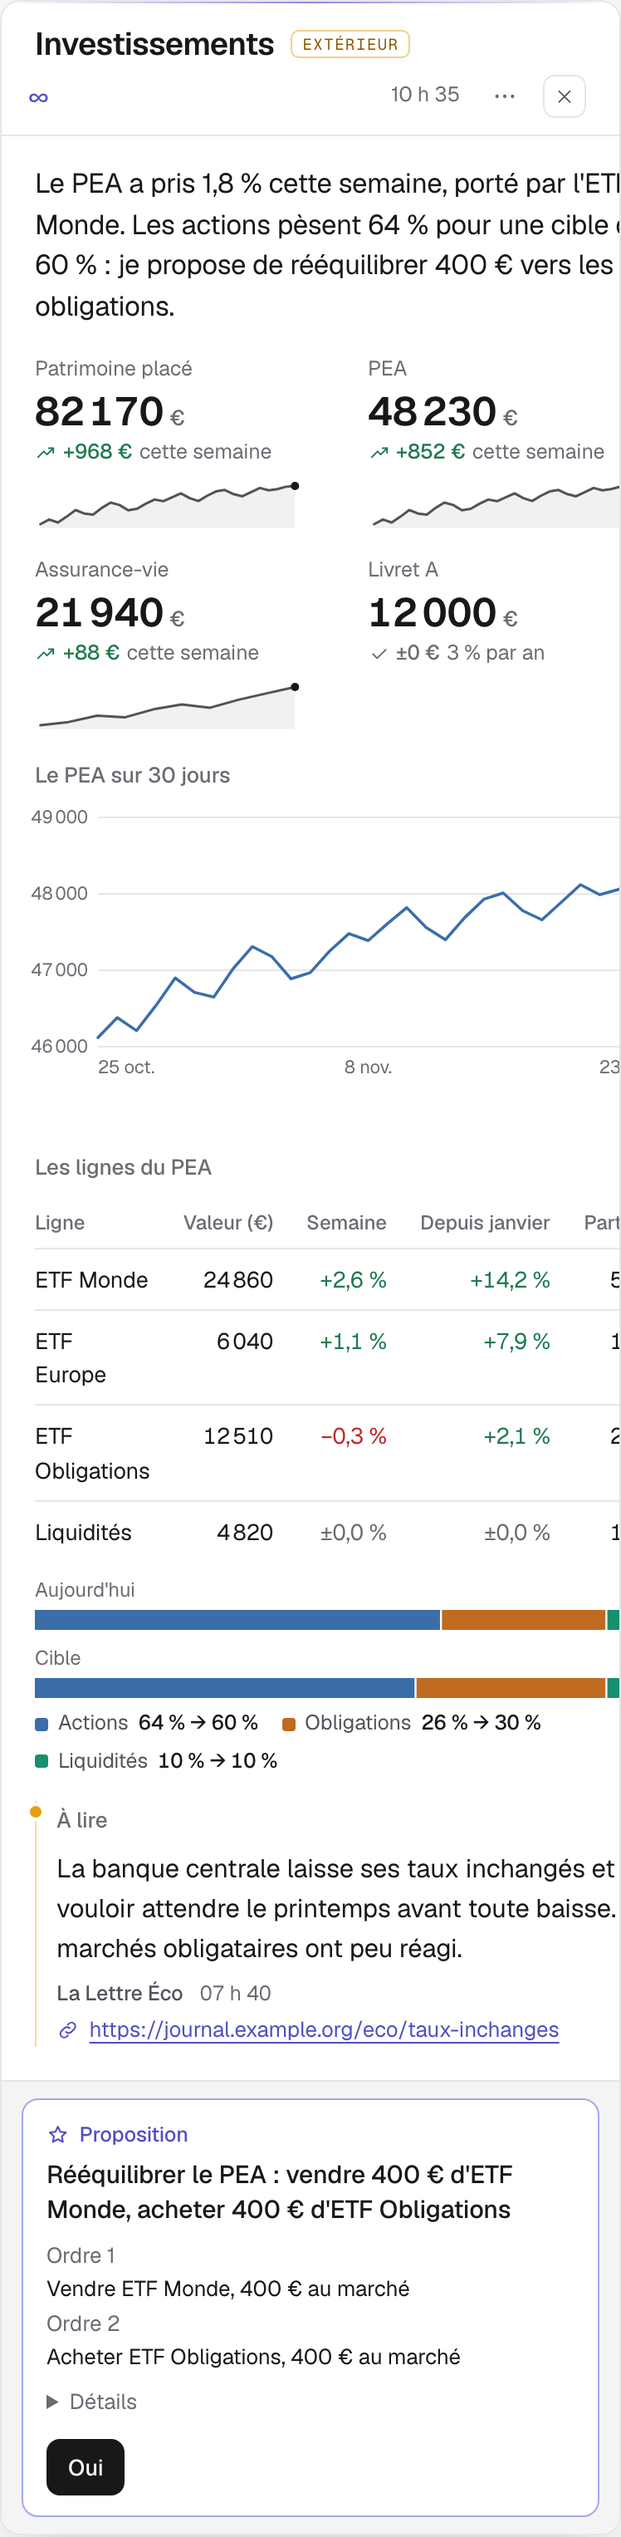
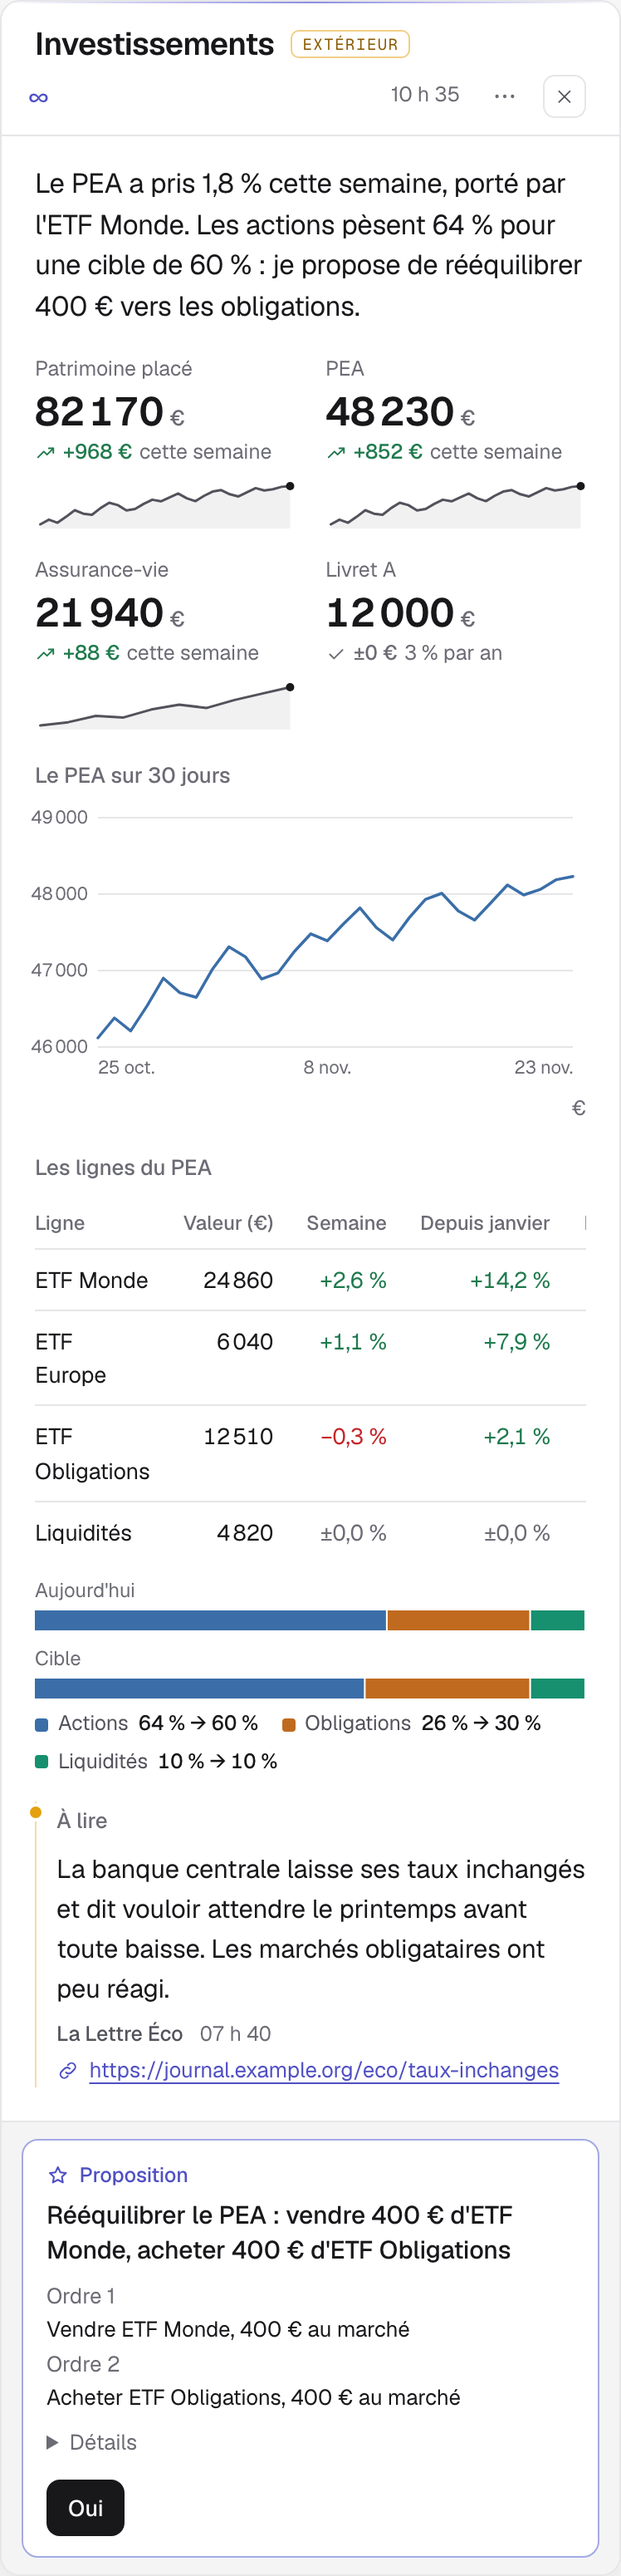
fix(espace): keep a phone page within the screen, rename the agenda's words for the tool guard

diff --git a/core/web/espace/src/a2ui/agenda.tsx b/core/web/espace/src/a2ui/agenda.tsx
@@ -160,8 +160,8 @@ function dayName(lang: Lang, t: T, date: string, now: Date, small = false): [str
   const d = today(now).date;
   const long = day(lang, w);
   const short = new Intl.DateTimeFormat(locale(lang), { weekday: "short", day: "numeric", timeZone: "UTC" }).format(w.at);
-  if (date === d) return [t("espace.a2.agenda.today"), long];
-  if (date === addDays(d, 1)) return [t("espace.a2.agenda.tomorrow"), small ? short : long];
+  if (date === d) return [t("espace.a2.days.today"), long];
+  if (date === addDays(d, 1)) return [t("espace.a2.days.tomorrow"), small ? short : long];
   return small ? [short, ""] : [long.charAt(0).toUpperCase() + long.slice(1), ""];
 }
 
@@ -177,8 +177,8 @@ function Head({ name }: { name: [string, string] }) {
 // What an entry says of itself besides its title: « à répondre », « peut-être »,
 // « Proposé »…
 function said(t: T, ev: Entry): string {
-  if (ev.ghost) return t(ev.tainted ? "espace.a2.agenda.proposed.tainted" : "espace.a2.agenda.proposed");
-  return ev.st ? t(`espace.a2.agenda.status.${ev.st}`) : "";
+  if (ev.ghost) return t(ev.tainted ? "espace.a2.days.proposed.tainted" : "espace.a2.days.proposed");
+  return ev.st ? t(`espace.a2.days.status.${ev.st}`) : "";
 }
 
 const stClass = (ev: Entry) => [ev.waits ? "a2-ev-waits" : "", ev.st ? `a2-ev-${ev.st}` : ""].filter(Boolean).join(" ");
@@ -235,7 +235,7 @@ function HourDay({ date, items, cards, lang, t, now }: { date: string; items: En
             {String(h).padStart(2, "0")}
           </span>
         ))}
-        {!timed.length && !allDay.length && <p className="a2-empty a2-agenda-none a2-r-0">{t("espace.a2.agenda.none")}</p>}
+        {!timed.length && !allDay.length && <p className="a2-empty a2-agenda-none a2-r-0">{t("espace.a2.days.none")}</p>}
         {timed.map((p, i) => {
           const rows = Math.max(1, Math.ceil((p.end - p.start) / SLOT));
           const past = isToday && p.end <= here.min;
@@ -268,12 +268,12 @@ function HourDay({ date, items, cards, lang, t, now }: { date: string; items: En
               )}
               {rows > 3 && p.ev.waits && p.clash.length > 0 && (
                 <span className="a2-ev-line a2-ev-sub">
-                  <span className="a2-ev-clash">{t("espace.a2.agenda.clash", p.clash.join(", "))}</span>
+                  <span className="a2-ev-clash">{t("espace.a2.days.clash", p.clash.join(", "))}</span>
                 </span>
               )}
               {yes(p.ev, cards)}
-              {p.ev.waits && p.clash.length > 0 && rows <= 3 && <span className="sr-only">{t("espace.a2.agenda.clash", p.clash.join(", "))}</span>}
-              {p.overlap && !(p.ev.waits && p.clash.length) && <span className="sr-only">{t("espace.a2.agenda.overlap")}</span>}
+              {p.ev.waits && p.clash.length > 0 && rows <= 3 && <span className="sr-only">{t("espace.a2.days.clash", p.clash.join(", "))}</span>}
+              {p.overlap && !(p.ev.waits && p.clash.length) && <span className="sr-only">{t("espace.a2.days.overlap")}</span>}
             </div>
           );
         })}
@@ -283,7 +283,7 @@ function HourDay({ date, items, cards, lang, t, now }: { date: string; items: En
               {time(lang, nowW, true)}
             </span>
             <span className={`a2-now a2-r-${row(here.min)} a2-now-${Math.floor((nowAt % SLOT) / 10)}`} role="presentation">
-              <span className="sr-only">{t("espace.a2.agenda.now", time(lang, nowW))}</span>
+              <span className="sr-only">{t("espace.a2.days.now", time(lang, nowW))}</span>
             </span>
           </>
         )}
@@ -308,7 +308,7 @@ function ListDay({ date, items, cards, lang, t, now, small = false }: { date: st
             const word = said(t, ev);
             return (
               <li key={i} className={`a2-agenda-line ${stClass(ev)}`} data-proposal={ev.ghost}>
-                <span className="a2-agenda-at">{at || t("espace.a2.agenda.allday")}</span>
+                <span className="a2-agenda-at">{at || t("espace.a2.days.allday")}</span>
                 <span className="a2-agenda-what">
                   <span className="a2-ev-title">{ev.title}</span>
                   {!small && ev.place && <span className="a2-ev-place">{ev.place}</span>}
@@ -320,7 +320,7 @@ function ListDay({ date, items, cards, lang, t, now, small = false }: { date: st
           })}
         </ul>
       ) : (
-        <p className="a2-empty a2-agenda-free">{t("espace.a2.agenda.free")}</p>
+        <p className="a2-empty a2-agenda-free">{t("espace.a2.days.free")}</p>
       )}
     </Tag>
   );

diff --git a/core/web/espace/src/espace.css b/core/web/espace/src/espace.css
@@ -888,7 +888,7 @@ textarea.a2-input { resize: vertical; min-height: 4.5em; }
    scrolls to. */
 .pg-foot { border-top: 1px solid var(--line); padding: 10px 12px; background: var(--fill); }
 .pg-body > .pg-foot { margin: 20px -20px -20px; }
-.pg-doc { display: grid; gap: 14px; }
+.pg-doc { display: grid; grid-template-columns: minmax(0, 1fr); gap: 14px; }
 .pg-doc .a2-markdown > :first-child { margin-top: 0; }
 .a2-block { display: flex; flex-direction: column; gap: 10px; }
 /* A block someone else's words reached: a thin amber edge, a small dot at
@@ -1210,3 +1210,5 @@ li:hover .a2-inline-no, .a2-inline-no:focus-visible { opacity: 1; }
 @media (max-width: 560px) { .proto-blocks { padding: 28px 12px 60px; } .proto-page { padding: 16px 14px; } }
 .a2-block.ext .a2-quote { padding-left: 0; border-left: 0; } /* the block's edge already sets the words apart */
 .a2-metric > .a2-spark { margin-top: auto; padding-top: 6px; box-sizing: content-box; }
+/* An event beside another: room for its time, its place left out. */
+.a2-ev:not(.a2-lane-all) .a2-ev-sub .a2-ev-place { display: none; }

diff --git a/core/web_text_espace.go b/core/web_text_espace.go
@@ -153,20 +153,20 @@ var espaceStrings = map[string]map[string]string{
 		"espace.a2.message.more":               "Lire tout",
 		"espace.a2.message.less":               "Réduire",
 		"espace.a2.allday":                     "Toute la journée",
-		"espace.a2.agenda.none":                "Rien de prévu",
-		"espace.a2.agenda.free":                "Libre",
-		"espace.a2.agenda.today":               "Aujourd'hui",
-		"espace.a2.agenda.tomorrow":            "Demain",
-		"espace.a2.agenda.allday":              "journée",
-		"espace.a2.agenda.now":                 "Il est %s",
-		"espace.a2.agenda.overlap":             "chevauche un autre événement",
-		"espace.a2.agenda.proposed":            "proposé par Eriphe",
-		"espace.a2.agenda.proposed.tainted":    "proposé · contenu extérieur",
-		"espace.a2.agenda.clash":               "chevauche « %s »",
-		"espace.a2.agenda.status.tentative":    "peut-être",
-		"espace.a2.agenda.status.needs-action": "à répondre",
-		"espace.a2.agenda.status.declined":     "refusé",
-		"espace.a2.agenda.status.cancelled":    "annulé",
+		"espace.a2.days.none":                "Rien de prévu",
+		"espace.a2.days.free":                "Libre",
+		"espace.a2.days.today":               "Aujourd'hui",
+		"espace.a2.days.tomorrow":            "Demain",
+		"espace.a2.days.allday":              "journée",
+		"espace.a2.days.now":                 "Il est %s",
+		"espace.a2.days.overlap":             "chevauche un autre événement",
+		"espace.a2.days.proposed":            "proposé par Eriphe",
+		"espace.a2.days.proposed.tainted":    "proposé · contenu extérieur",
+		"espace.a2.days.clash":               "chevauche « %s »",
+		"espace.a2.days.status.tentative":    "peut-être",
+		"espace.a2.days.status.needs-action": "à répondre",
+		"espace.a2.days.status.declined":     "refusé",
+		"espace.a2.days.status.cancelled":    "annulé",
 		"espace.a2.proposal":                   "Proposition",
 		"espace.a2.proposal.approved":          "Validé",
 		"espace.a2.proposal.rejected":          "Refusé",
@@ -335,20 +335,20 @@ var espaceStrings = map[string]map[string]string{
 		"espace.a2.message.more":               "Read all",
 		"espace.a2.message.less":               "Show less",
 		"espace.a2.allday":                     "All day",
-		"espace.a2.agenda.none":                "Nothing planned",
-		"espace.a2.agenda.free":                "Free",
-		"espace.a2.agenda.today":               "Today",
-		"espace.a2.agenda.tomorrow":            "Tomorrow",
-		"espace.a2.agenda.allday":              "all day",
-		"espace.a2.agenda.now":                 "It is %s",
-		"espace.a2.agenda.overlap":             "overlaps another event",
-		"espace.a2.agenda.proposed":            "proposed by Eriphe",
-		"espace.a2.agenda.proposed.tainted":    "proposed · external content",
-		"espace.a2.agenda.clash":               "overlaps “%s”",
-		"espace.a2.agenda.status.tentative":    "maybe",
-		"espace.a2.agenda.status.needs-action": "to answer",
-		"espace.a2.agenda.status.declined":     "declined",
-		"espace.a2.agenda.status.cancelled":    "cancelled",
+		"espace.a2.days.none":                "Nothing planned",
+		"espace.a2.days.free":                "Free",
+		"espace.a2.days.today":               "Today",
+		"espace.a2.days.tomorrow":            "Tomorrow",
+		"espace.a2.days.allday":              "all day",
+		"espace.a2.days.now":                 "It is %s",
+		"espace.a2.days.overlap":             "overlaps another event",
+		"espace.a2.days.proposed":            "proposed by Eriphe",
+		"espace.a2.days.proposed.tainted":    "proposed · external content",
+		"espace.a2.days.clash":               "overlaps “%s”",
+		"espace.a2.days.status.tentative":    "maybe",
+		"espace.a2.days.status.needs-action": "to answer",
+		"espace.a2.days.status.declined":     "declined",
+		"espace.a2.days.status.cancelled":    "cancelled",
 		"espace.a2.proposal":                   "Proposal",
 		"espace.a2.proposal.approved":          "Approved",
 		"espace.a2.proposal.rejected":          "Declined",

diff --git a/PROTO.md b/PROTO.md
@@ -119,7 +119,7 @@ as a Link's: `a2ui.IsLink` now covers `Quote.url`, with a Go test. Inside a bloc
 the quote drops its own rule, because the block's amber edge is already that sign.
 
 ```json
-{"id":"q","component":"Quote","text":"Tu peux me dire avant vendredi si ça te va ?","from":"Sam <sam@example.org>","date":"2026-11-22T18:12:00+01:00"}
+{"id":"q","component":"Quote","text":"Tu peux me dire avant vendredi si ça te va ?","from":"Sam <sam@example.org>","date":"2026-11-22T18:12:00+01:00","url":"https://example.org/devis"}
 ```
 
 ### Timeline (revised): what happened
@@ -153,6 +153,7 @@ green when up and red when down.
 - **Chart**: the plot is measured with `ResizeObserver` and its viewBox follows the real width, so
   its words and height keep their size. Axis labels now use Geist with tabular figures.
 - **Message**: the date is in Geist with tabular figures, not monospace.
+- **Page grid**: `.pg-doc` gets `grid-template-columns: minmax(0, 1fr)`, so a wide table no longer pushes a phone page past the screen (it scrolls in its own box).
 
 ## Changed files
 
@@ -161,7 +162,7 @@ green when up and red when down.
   `testdata/catalog_prompt.md`.
 - Front: `a2ui/agenda.tsx` (was `day.tsx`), `a2ui/spark.tsx`, `a2ui/catalog.tsx`, `a2ui/chart.tsx`,
   `a2ui/inline.tsx`, `espace.css`.
-- Words FR/EN: `core/web_text_espace.go` → `strings.json` (`espace.a2.agenda.*`,
+- Words FR/EN: `core/web_text_espace.go` → `strings.json` (`espace.a2.days.*`: the word « agenda » is a tool word the guard test refuses in workspace strings,
   `espace.a2.progress.of`).
 - Dev data: `data/sampledays.ts` (Ma journée, Investissements, gallery sections),
   `data/sampleviews.ts` (Mes mails: Quote, week figures), `data/samplecore.ts` (an Agenda's rows
@@ -169,7 +170,7 @@ green when up and red when down.
 - Tests: `components.test.tsx` (agenda placement and now line, statuses in words, next days,
   ghosts with their Oui, Person, Quote, trend, step, change, dated timeline), `catalog.test.ts`.
   `npx tsc --noEmit` and `npx vitest run` (287 tests) pass, as do the Go `a2ui` tests,
-  `TestEspaceStrings` and `TestEspaceGalleryIsValid`.
+  the whole core module (`go build ./... && go vet ./... && go test ./...`, gofmt clean).
 
 ## For the implementation PR (not done here)
 
@@ -180,7 +181,7 @@ green when up and red when down.
 - Brain prompt (`brain-prompt.md`) and catalog instructions: « une journée : Agenda », and when to
   use Person, Quote and a figure row. Also `docs/node-format.md`, `docs/workspace.md`, and the core
   README's catalog list.
-- The e2e specs that mention Day (if any) and the rebuilt bundle.
+- `core/README.md` still describes `Day` (lines ~3702, 3777, 3782, 3870-3888: the catalog list, bindings, dated ghosts); no e2e spec, doc or brain prompt names it.
 
 ## Open questions for you
 
@@ -205,3 +206,4 @@ green when up and red when down.
    the espace still writing `Day`?
 8. **Other candidates not built**: a media gallery (Image already exists in a Grid), a map-free
    place card, and a checklist that is not buttons. Is any of them worth the next pass?
+9. **Two events side by side on a phone**: each lane is about 150 px wide, so the ghost shows « à répondre 12 h 30 – 1… » (the place is dropped beside another event). Is that enough, or should a clash on a phone stack the events instead of placing them side by side?
